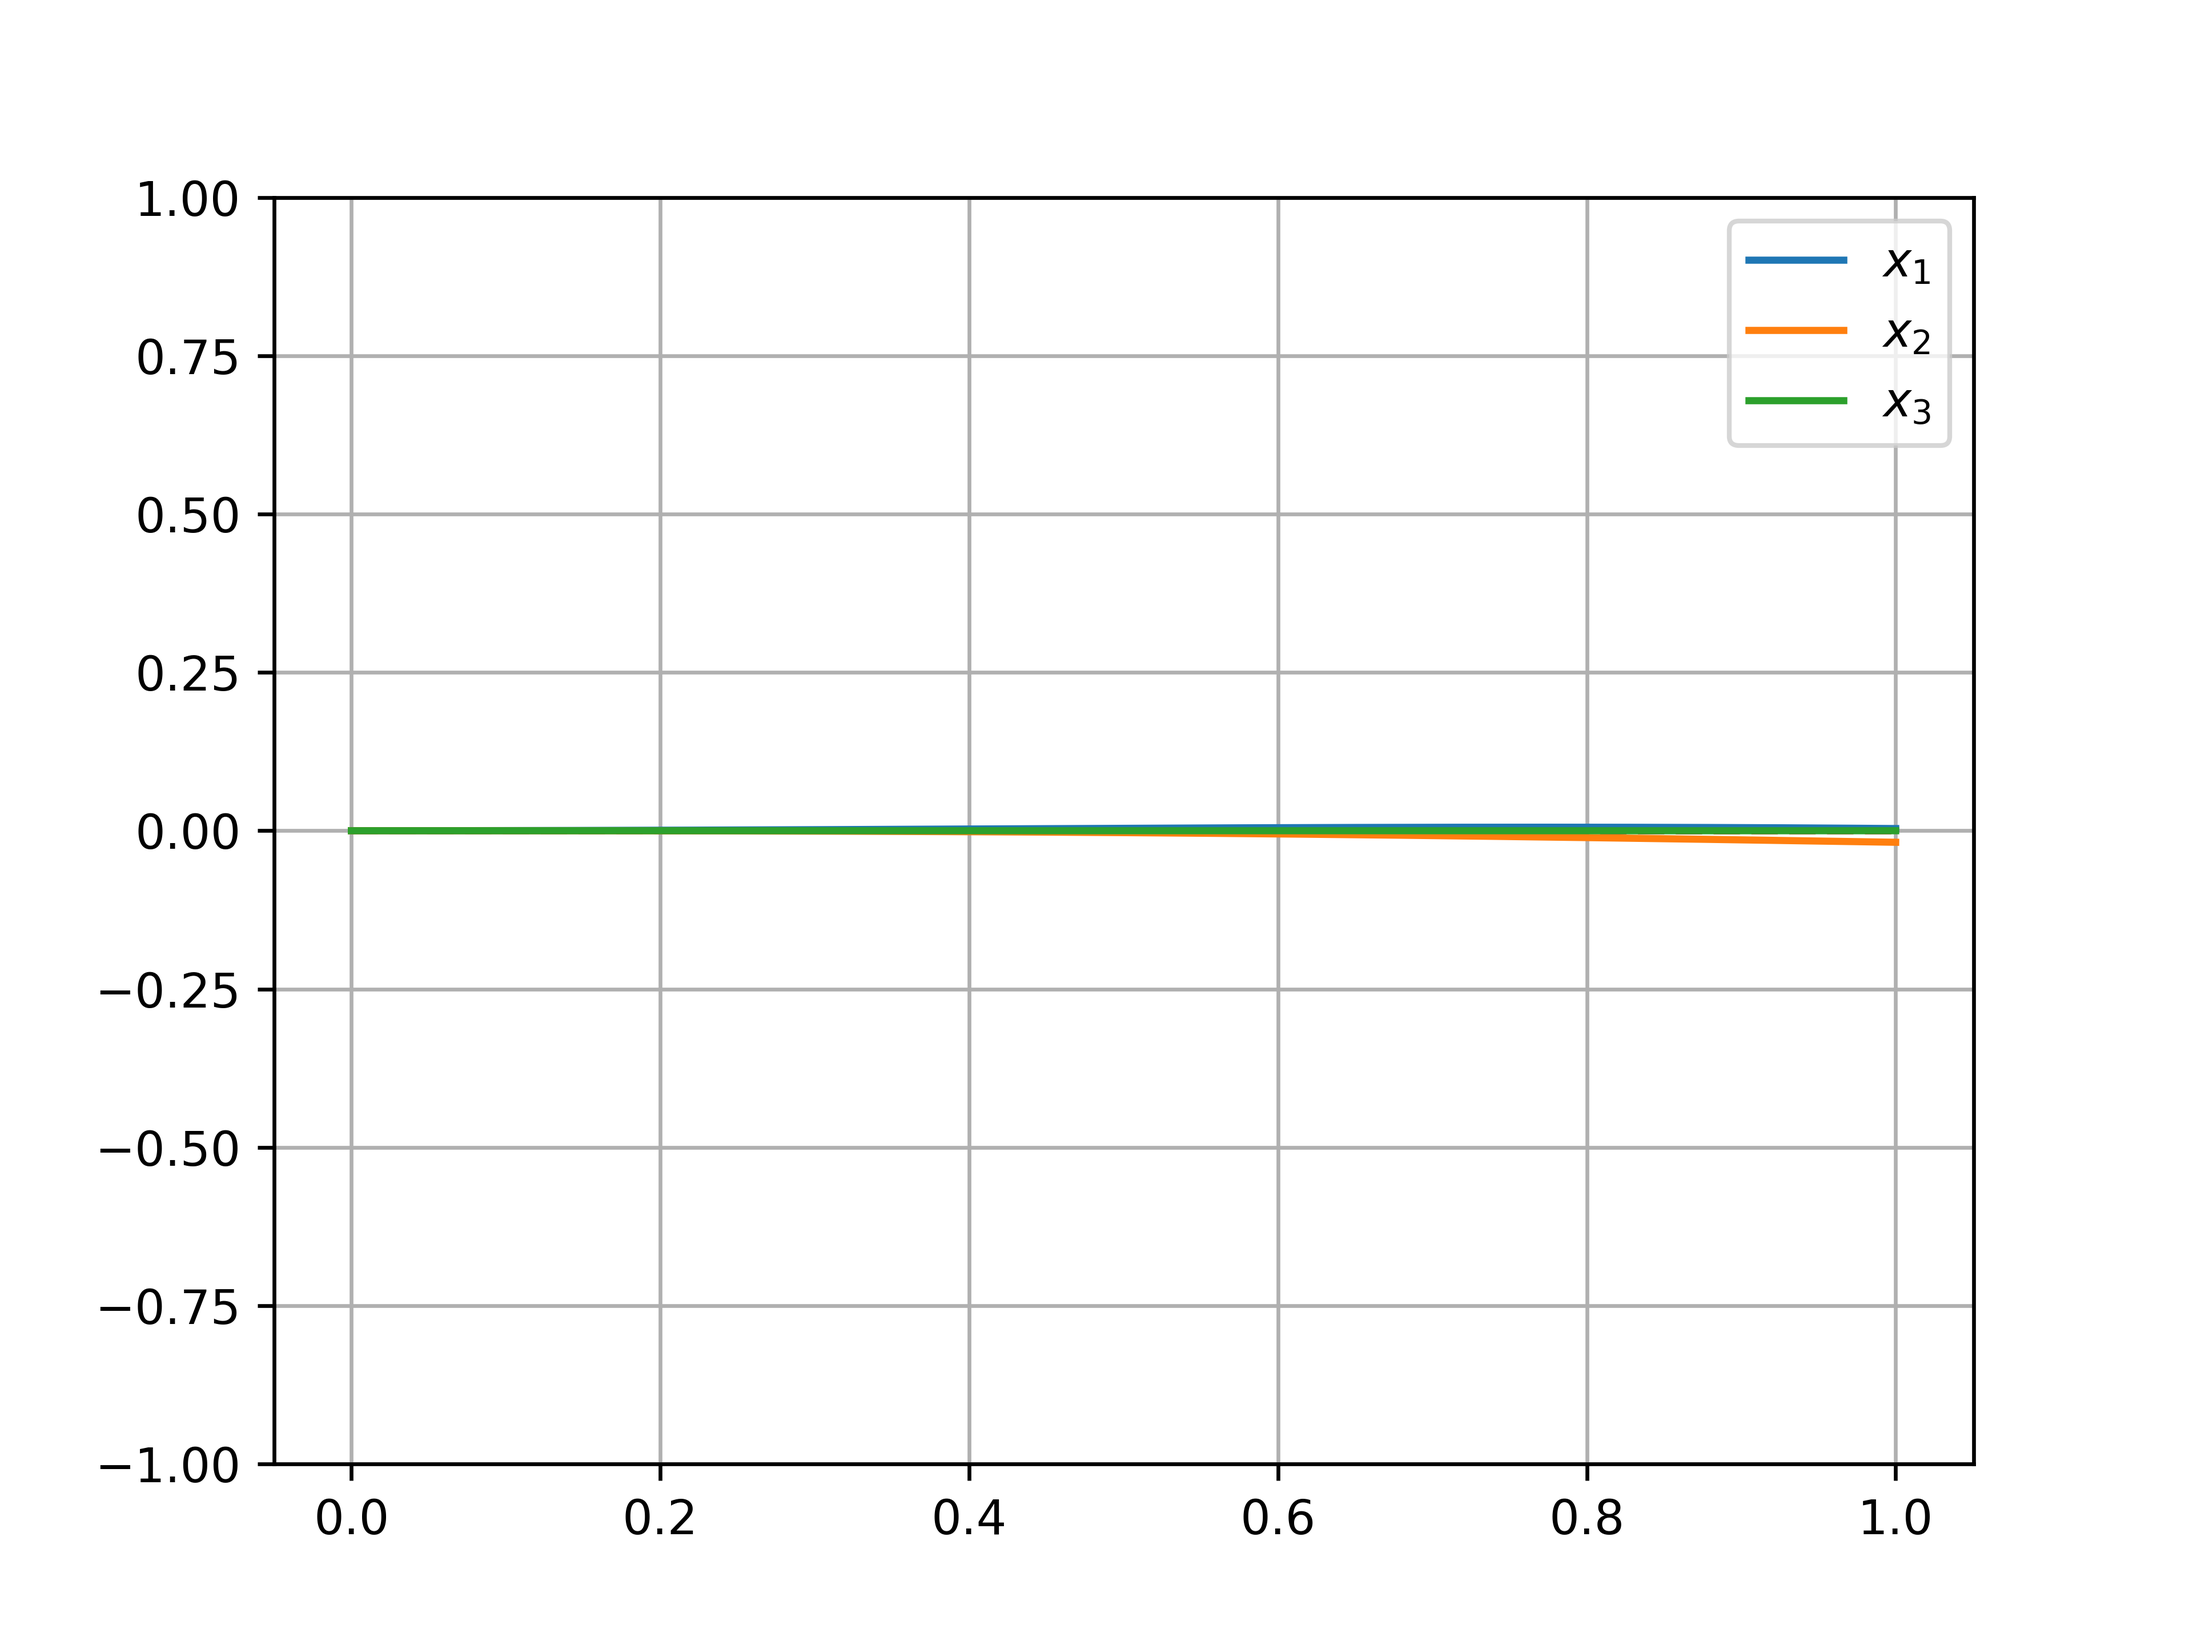
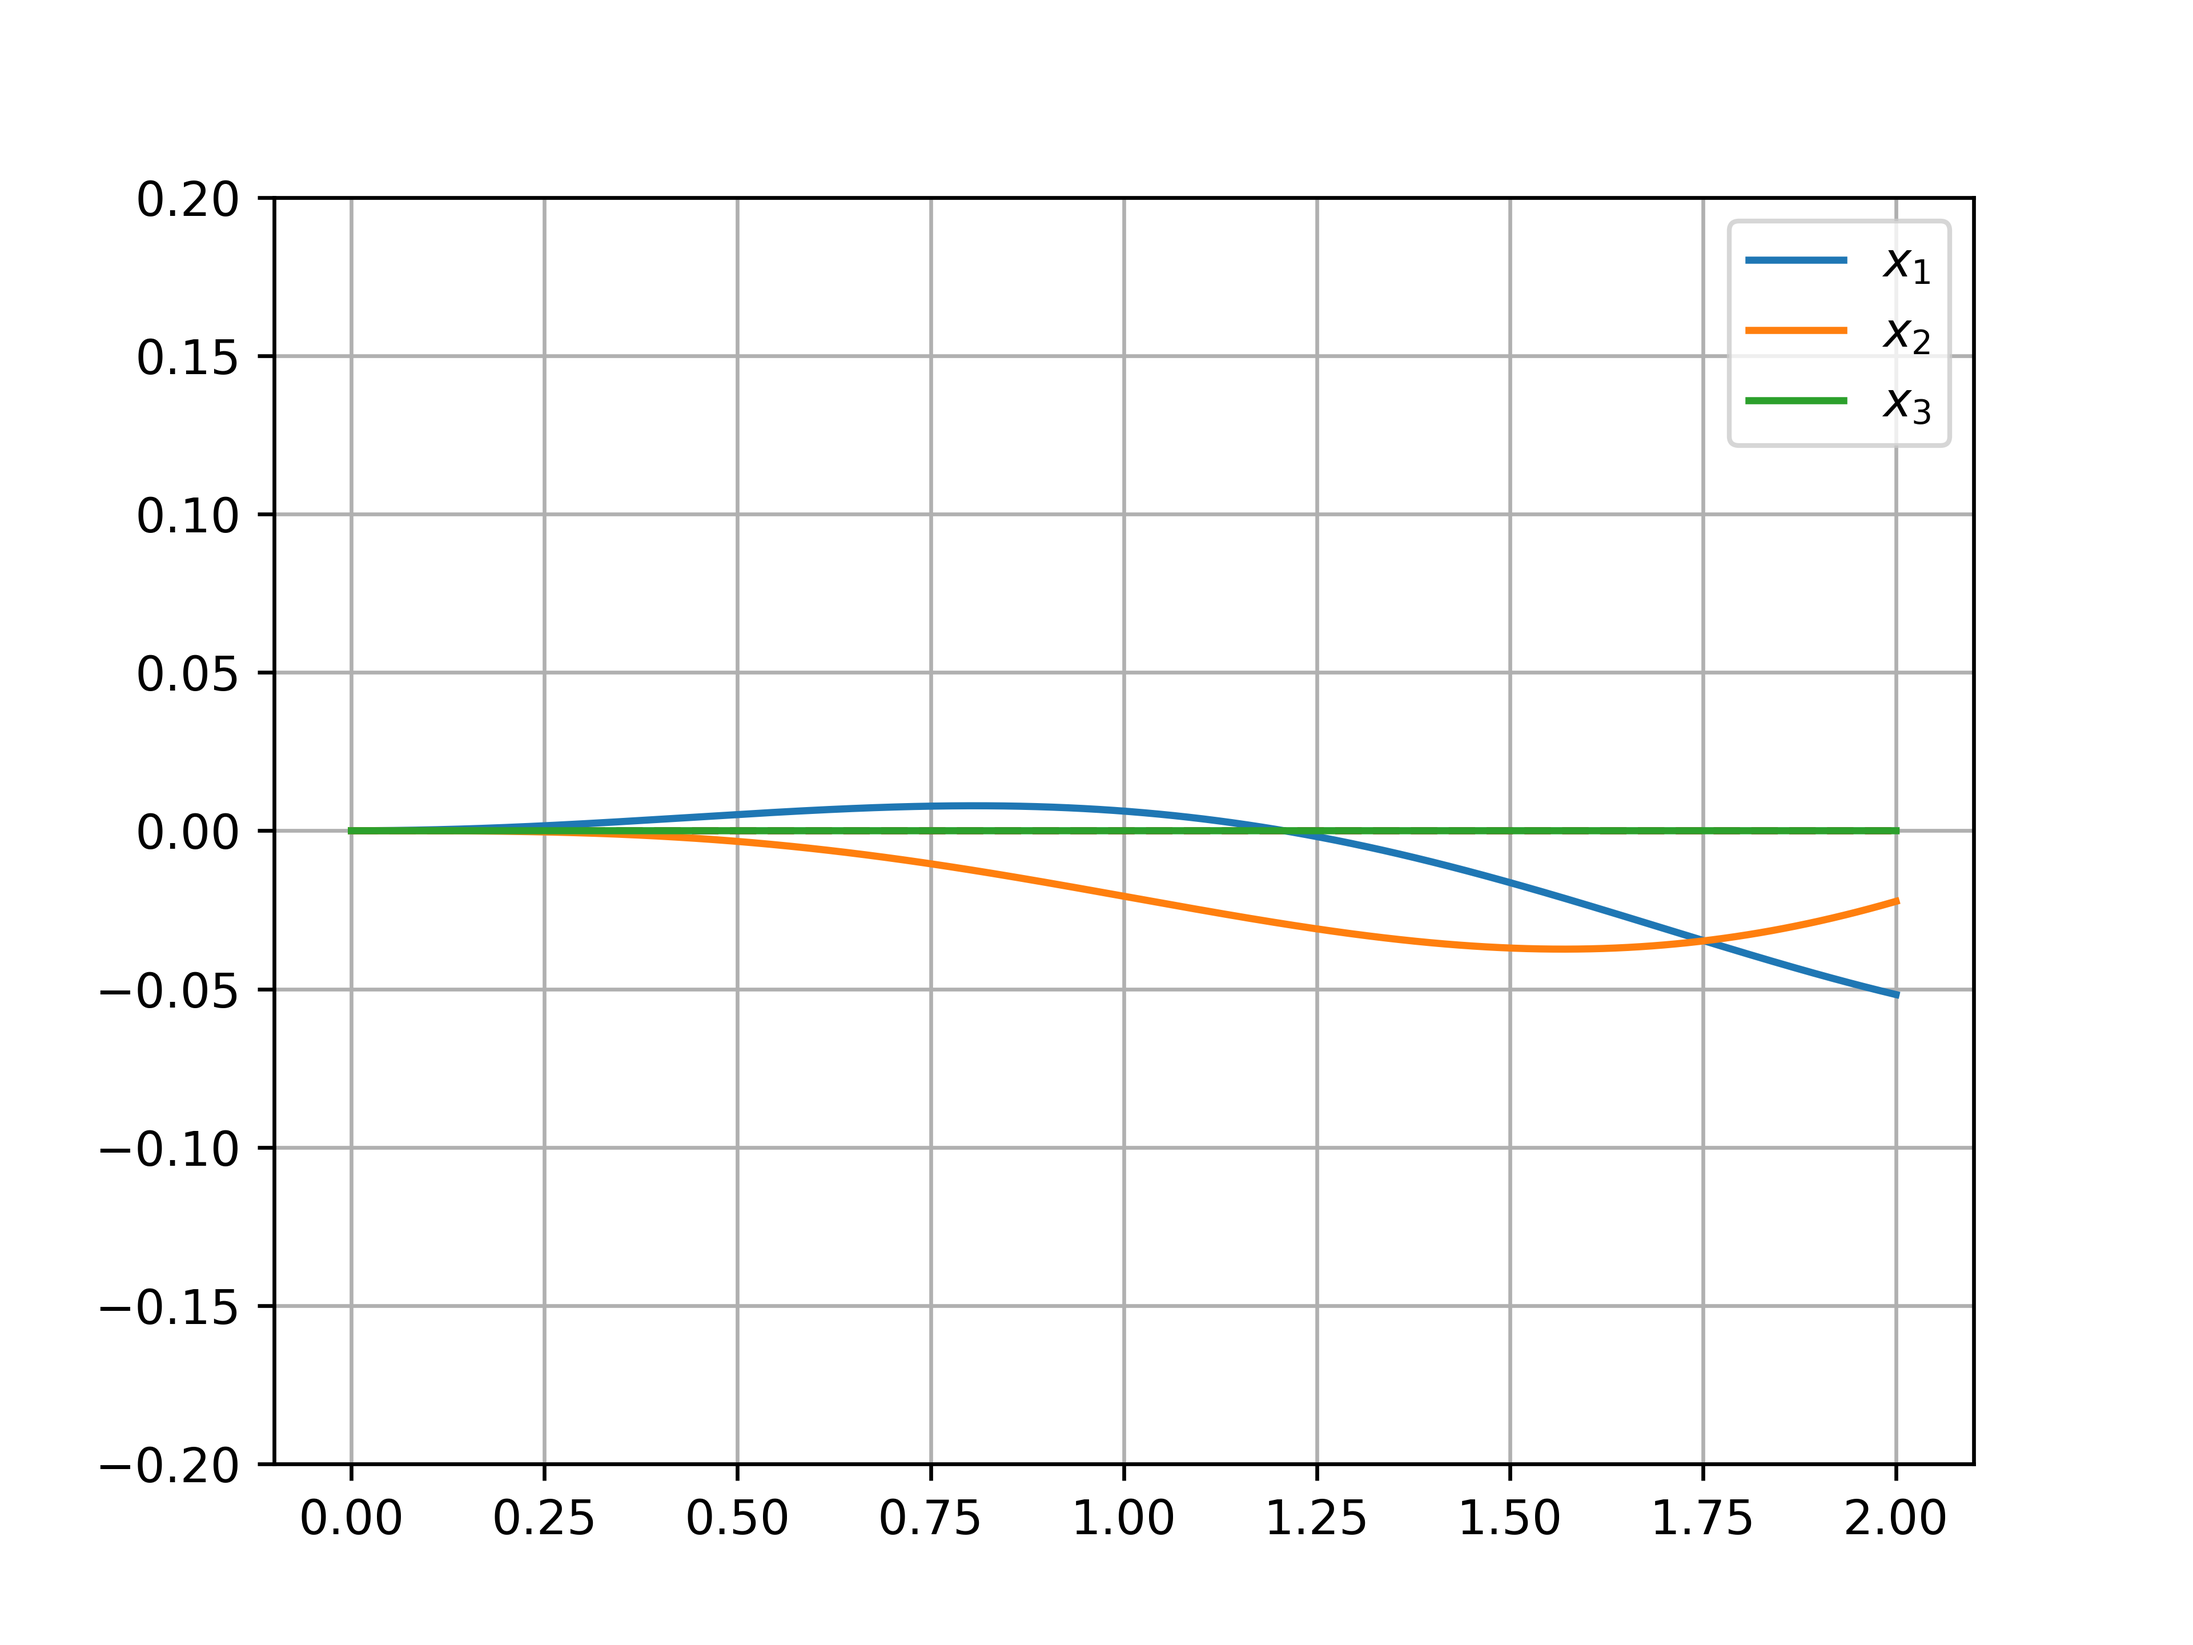
pm prep

diff --git a/donald.py b/donald.py
@@ -319,7 +319,7 @@ if __name__ == "__main__":
 
 
     # evaluate error
-    Te = 1;  Ne = round(Te/dt) + 1;
+    Te = 2;  Ne = round(Te/dt) + 1;
     figError, axsError = plt.subplots();
 
     axsError.plot([tList[0][0], tList[0][Ne]], [0,0], color='r', linestyle='--');
@@ -327,7 +327,7 @@ if __name__ == "__main__":
     axsError.plot(tList[0][:Ne], PsiTest[1,:Ne]-xTest[1,:Ne], label='$x_2$');
     axsError.plot(tList[0][:Ne], PsiTest[2,:Ne]-xTest[2,:Ne], label='$x_3$');
 
-    axsError.set_ylim( (-1,1) );
+    axsError.set_ylim( (-0.2,0.2) );
     axsError.grid();
     axsError.legend();
 

diff --git a/readme.md b/readme.md
@@ -72,7 +72,7 @@ In other words, for a wholistically linear system, we can represent the model in
 The Koopman operator for this was formed using the KCE and resulted in good behavior...
 
 <p align="center">
-    <img src=./Figures/point.png width=450 />
+    <img src=./.figures/point.png width=450 />
 </p>
 
 ___
